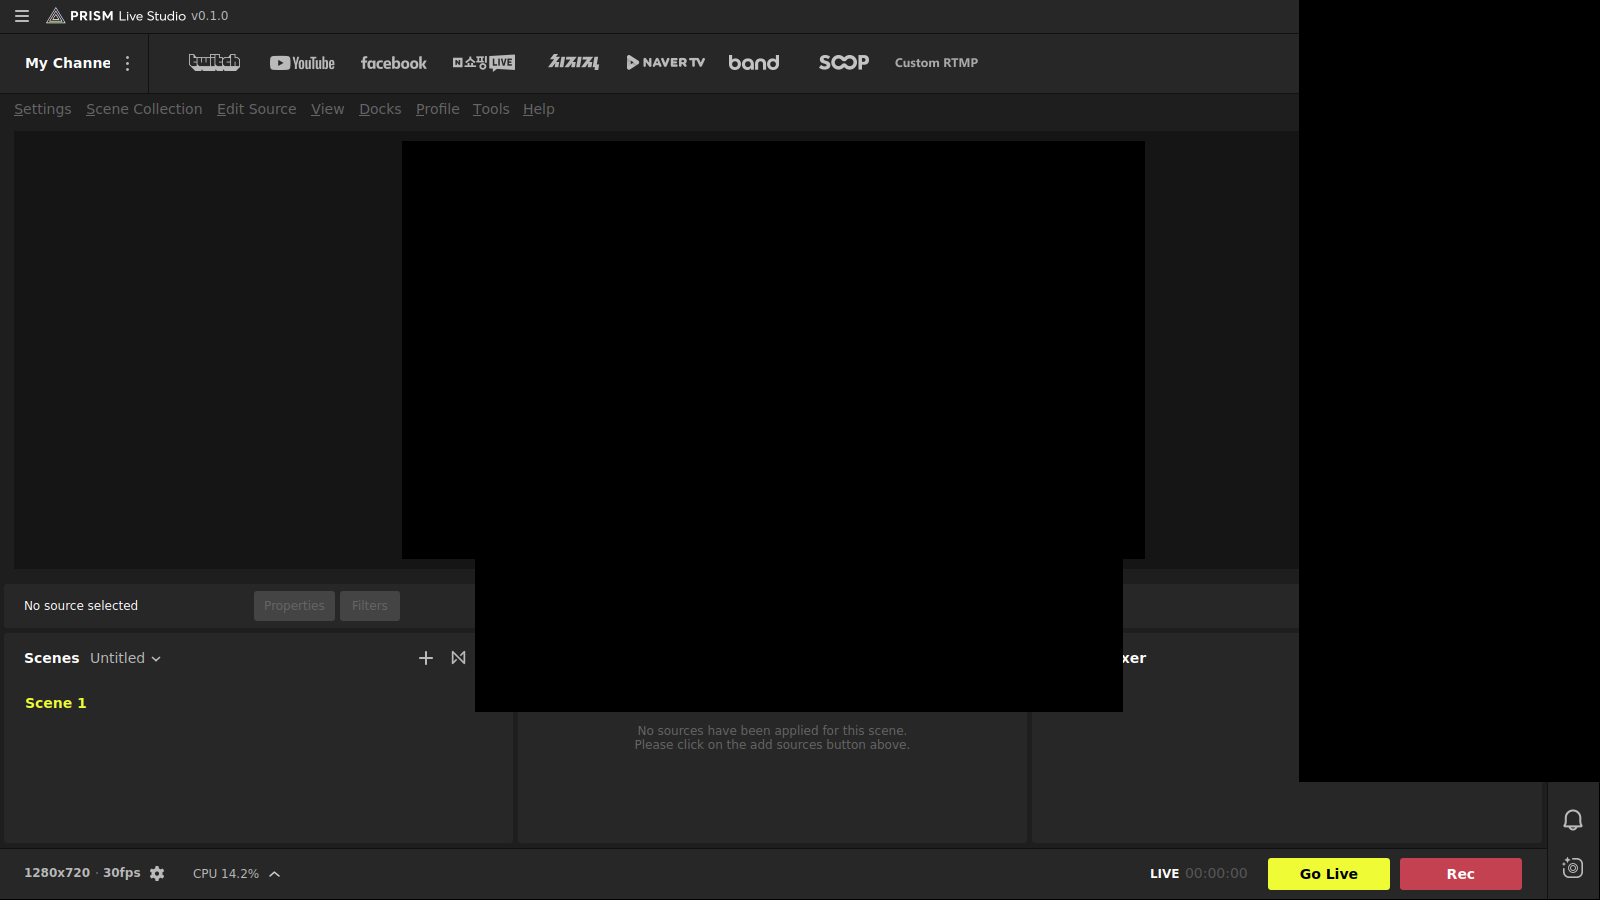
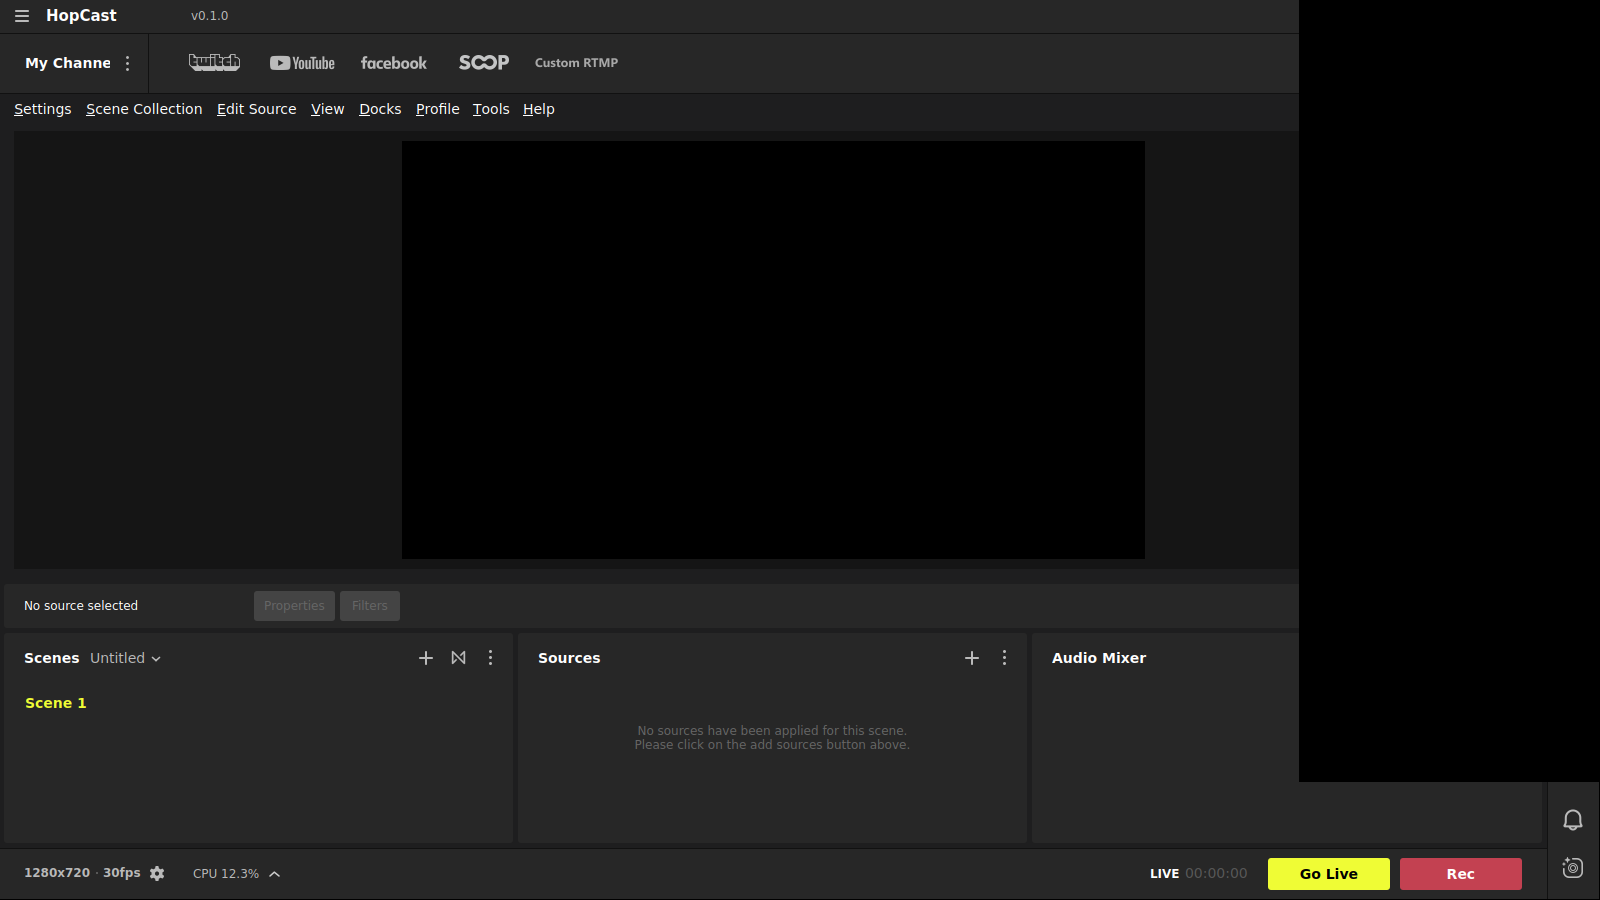
README: no NAVER services, local RTMP channels, HopCast naming
Claude-Session: https://claude.ai/code/session_01LKu54WUFWBvGtHz1uDTY5X

diff --git a/hopcast/README.md b/hopcast/README.md
@@ -93,25 +93,40 @@ Startup fixes made to get here (all marked `HopCast` in the source):
 | No Linux data layout | Generic install rules + `share/hopcast` data paths (`GetDataFilePath`, locale.ini, plugin path) |
 | Null `PLSBasic` in side-bar hide event during construction (X11 realizes docks early) | Guarded |
 
-### No accounts
+### No accounts, no NAVER services, no PRISM branding
 
-PRISM normally won't open its studio until you sign in with a PRISM account (Facebook, Google,
-Twitch, NAVER, Apple, LINE or e-mail), and that account system only works with NAVER's servers.
-HopCast removes it: the CMake option `HOPCAST_NO_ACCOUNT` (on by default) skips the login window,
-drops the File › Logout item and hides Settings › General › Account. The app opens straight into
-the studio:
+PRISM normally won't open its studio until you sign in with a PRISM account, and its account,
+update, notice, banner, resource and channel-sync features all run on NAVER's servers. HopCast has
+no right to use those servers (and the public source has none of their addresses or keys), so two
+CMake options, both on by default, remove them:
 
-![HopCast studio window, no sign-in (Xvfb, CI)](docs/phase1-studio-no-account.png)
+- `HOPCAST_NO_ACCOUNT` — no login window, no File › Logout, no Settings › General › Account.
+- `HOPCAST_NO_NAVER`
+  - **Hard network block:** `libhttp-client` refuses any request to a NAVER-operated host
+    (naver.com/.net, navercorp.com, pstatic.net, prismlive.com, NAVER Cloud, band.us, …) and any
+    unset endpoint, before a connection is made. The launch test reports blocked/leaked requests.
+  - **No NAVER calls at all at startup:** PRISM token, app-init, gpop, update check, notices,
+    thumbnails, banner and the resource CDN are skipped; bundled defaults are used.
+  - **Custom RTMP channels are saved locally** in
+    `~/.config/PRISMLiveStudio/user/hopcast-rtmp-channels.json` (owner-only; it contains stream
+    keys) instead of on NAVER's server.
+  - **Channels:** NAVER TV, BAND, Shopping Live, CHZZK, NCB2B, Whale and NOW removed.
+  - **Removed pop-ups:** welcome/banner window, PRISM Lens onboarding. Help menu keeps only Program Info.
+  - **Name:** title bar text "HopCast" with no logo image; window and tray title "HopCast" with
+    the desktop theme's generic camera icon.
 
-(The black rectangles in CI screenshots are translucent pop-ups — the welcome/notice dialogs and
-the chat panel — which need a compositor to draw; on a normal desktop they render normally.)
+![HopCast studio window (Xvfb, CI)](docs/phase1-studio-no-account.png)
+
+(The black area on the right in CI screenshots is the translucent chat panel, which needs a
+compositor to draw; on a normal desktop it renders normally.)
 
 ### Next in Phase 1
 
-- Channel bar: hide the NAVER-only services (NAVER TV, BAND, Shopping Live, CHZZK, SOOP) and
-  keep Custom RTMP, which streams to Twitch/YouTube/Kick/etc. with a stream key and no login.
-  Optional Twitch/YouTube sign-in (chat, titles) later, with HopCast's own registered app IDs.
-- Drop the welcome/notice pop-ups that fetch NAVER content.
+- Twitch / YouTube / Facebook / SOOP buttons still use PRISM's sign-in plugins (not built on Linux
+  yet, and they'd need HopCast's own registered app IDs). Until then, use **Custom RTMP** with a
+  stream key — it works for Twitch, YouTube, Kick, etc.
+- Remaining PRISM text in less visible places (dialog titles, translations, About box, the
+  `PRISMLiveStudio` config folder and binary name) — full rebrand pass.
 - PRISM source plugins (timer, text template, chat, sticker, …) on Linux.
 - Real-desktop test on CachyOS (X11 and Wayland).
 
